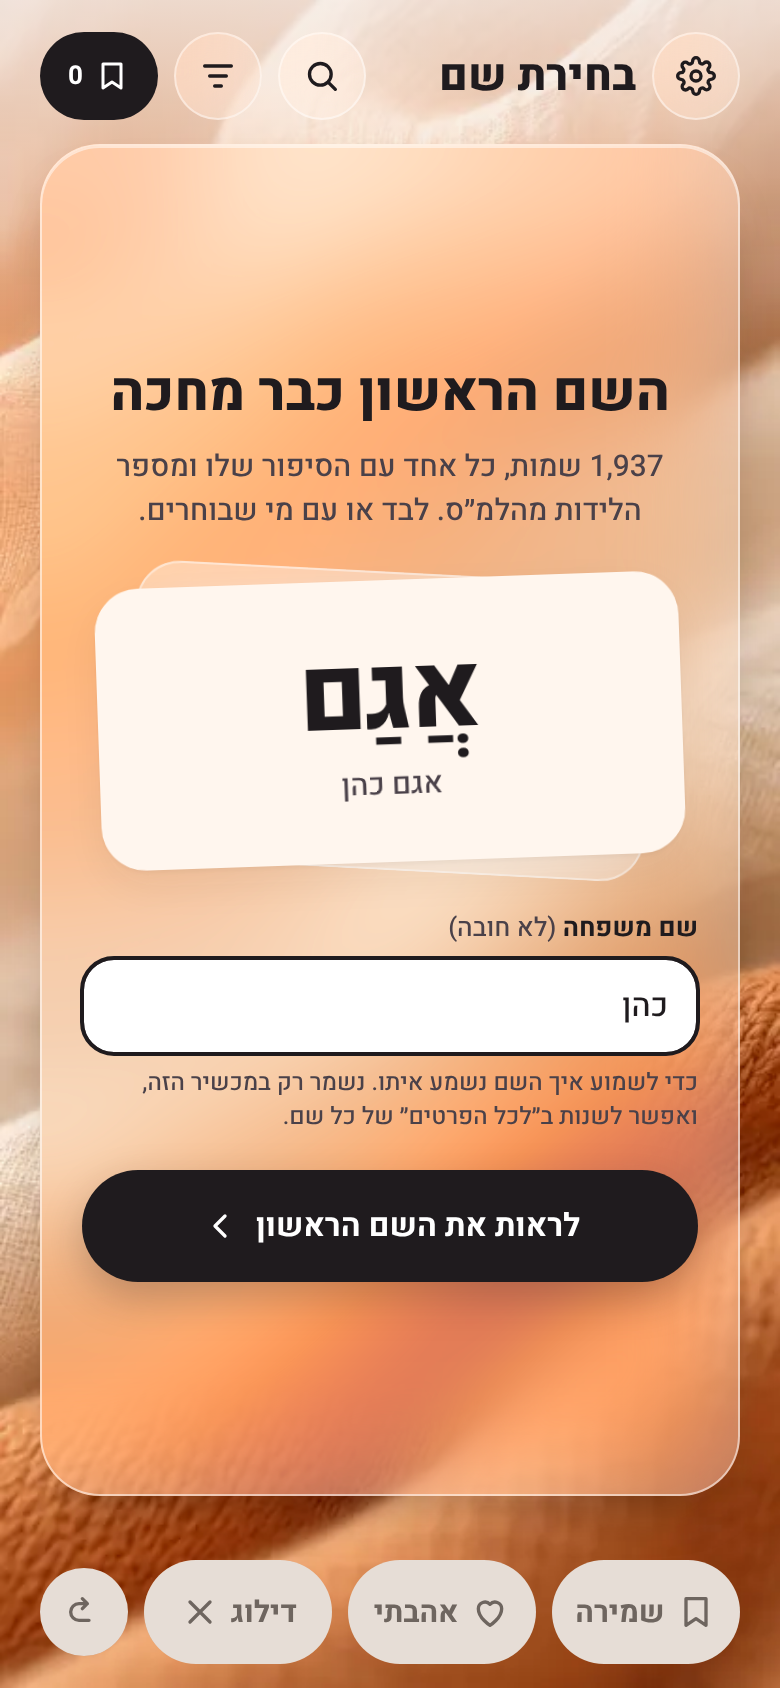
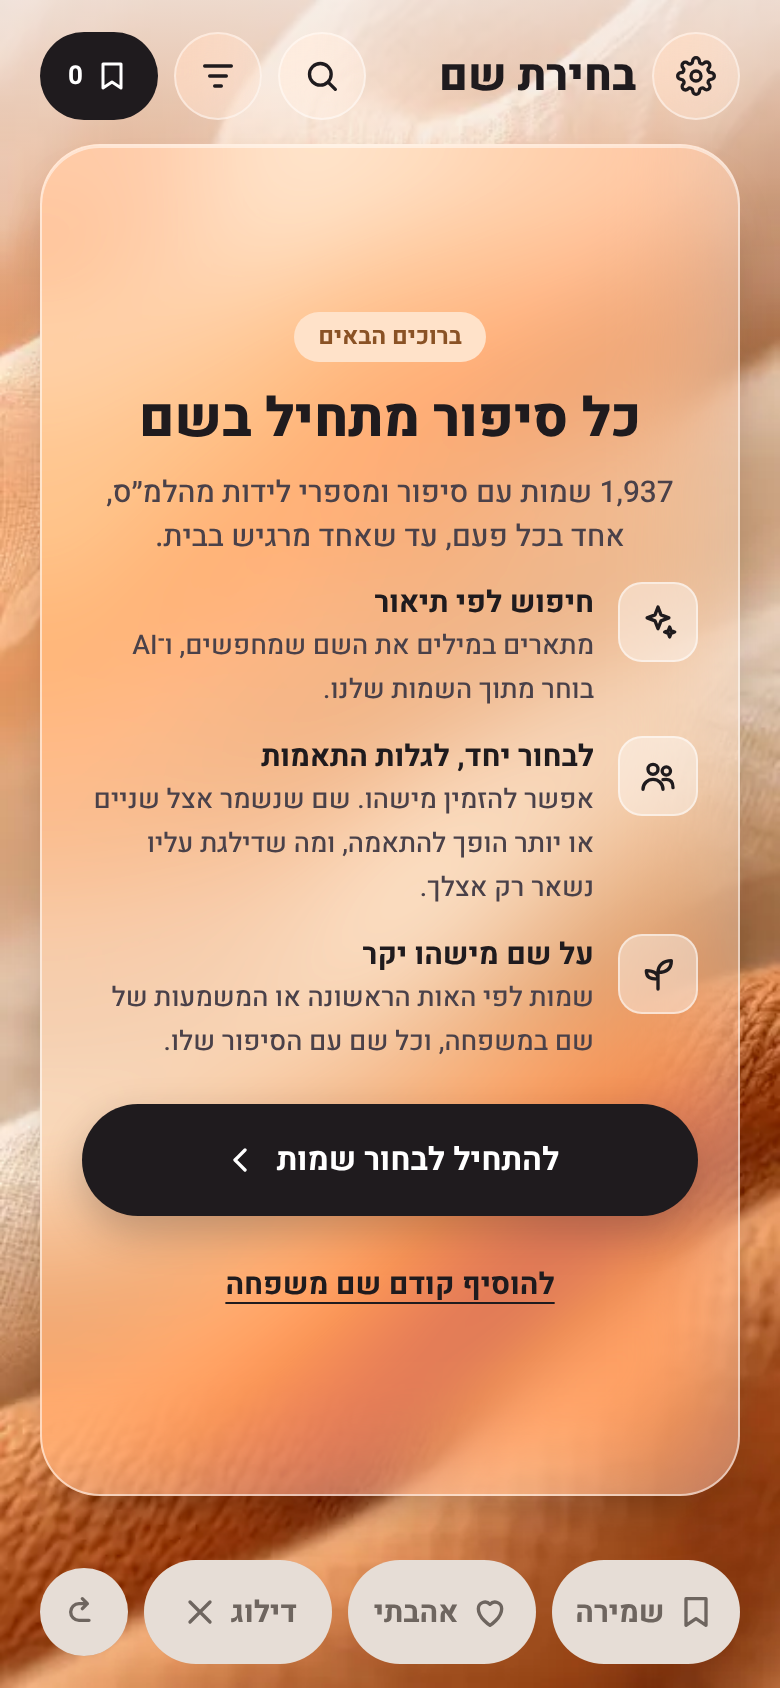
כרטיס פתיחה: direction A with a poetic title and the swiper's features
"כל סיפור מתחיל בשם", then three features: AI search (only while it's on),
choosing together and matches, naming after a relative. One button starts the
deck; the optional family name opens from a link under it.

Claude-Session: https://claude.ai/code/session_018hbTN1KPzs4NRqRC1ta2ev

Changed region(s): [[0.0923, 0.1848, 0.9231, 0.7701]]

diff --git a/src/components/names/swipe/SurnamePanel.tsx b/src/components/names/swipe/SurnamePanel.tsx
@@ -1,14 +1,14 @@
 "use client";
 
-import { useEffect, useState } from "react";
-import { Button, ChevronIcon, Glass, inputClass } from "@/components/names/ui";
+import { useEffect, useRef, useState, type ReactNode } from "react";
+import { Button, ChevronIcon, Glass, Icon, inputClass } from "@/components/names/ui";
+import { aiDeckEnabled } from "@/lib/names/aiDeck";
 import { SURNAME_MAX, fullName } from "@/lib/names/card";
 import { track } from "@/lib/names/track";
 import { deckPanel, deckPanelWrap } from "./EmptyDeck";
 
 type SurnamePanelProps = {
-  /** The first card's name with niqqud (large) and without it (with the surname, as on the card). */
-  preview: string;
+  /** The first card's name, for the surname hint ("נועם כהן"). */
   name: string;
   /** Guests have no settings screen: the hint points to the name sheet instead. */
   guest: boolean;
@@ -18,14 +18,49 @@ type SurnamePanelProps = {
   onDone: (surname: string) => void;
 };
 
+/** What the swiper can do, on the first card. The AI line shows only while the feature is on. */
+const FEATURES: { key: string; title: string; text: string; icon: ReactNode }[] = [
+  {
+    key: "ai",
+    title: "חיפוש לפי תיאור",
+    text: "מתארים במילים את השם שמחפשים, ו־AI בוחר מתוך השמות שלנו.",
+    icon: <path d="M12 3l1.8 4.7L18.5 9.5l-4.7 1.8L12 16l-1.8-4.7L5.5 9.5l4.7-1.8zM19 15l.8 2.2L22 18l-2.2.8L19 21l-.8-2.2L16 18l2.2-.8z" />,
+  },
+  {
+    key: "share",
+    title: "לבחור יחד, לגלות התאמות",
+    text: "אפשר להזמין מישהו. שם שנשמר אצל שניים או יותר הופך להתאמה, ומה שדילגת עליו נשאר רק אצלך.",
+    icon: (
+      <>
+        <circle cx="9" cy="8" r="3" />
+        <circle cx="17" cy="9" r="2.5" />
+        <path d="M3 20c0-3.3 2.7-6 6-6s6 2.7 6 6M15 14.2c.6-.1 1.3-.2 2-.2 2.8 0 4 2 4 5" />
+      </>
+    ),
+  },
+  {
+    key: "relative",
+    title: "על שם מישהו יקר",
+    text: "שמות לפי האות הראשונה או המשמעות של שם במשפחה, וכל שם עם הסיפור שלו.",
+    icon: <path d="M12 21V11M12 11c0-4 3-7 8-7 0 5-3 7-8 7zM12 15c0-3-2-5-7-5 0 4 2 5 7 5z" />,
+  },
+];
+
 /**
  * The first card a new visitor sees, once per device, where the first name card would be
- * (like PausePanel): an invitation to the deck that previews the first name, with an optional
- * family name shown on it as it is typed. One button starts the deck either way; the surname
+ * (like PausePanel): a poetic welcome, what the swiper can do (AI search, choosing together
+ * and matches, naming after a relative) and one button to the deck; an optional family name
+ * opens from a link below it. The button starts the deck either way; the surname
  * stays on the device only, and settings (or a name's sheet, for guests) can change it.
  */
-export default function SurnamePanel({ preview, name, guest, total, onDone }: SurnamePanelProps) {
+export default function SurnamePanel({ name, guest, total, onDone }: SurnamePanelProps) {
   const [surname, setSurname] = useState("");
+  // The surname field opens from its link, so the card leads with the invitation and one button.
+  const [open, setOpen] = useState(false);
+  const inputRef = useRef<HTMLInputElement>(null);
+  useEffect(() => {
+    if (open) inputRef.current?.focus();
+  }, [open]);
   const full = fullName(name, surname);
 
   useEffect(() => {
@@ -47,21 +82,26 @@ export default function SurnamePanel({ preview, name, guest, total, onDone }: Su
         aria-describedby="names-surname-lead"
         className={`${deckPanel} justify-center`}
       >
-        <h2 id="names-surname-title" className="m-0 text-display text-ink">
-          השם הראשון כבר מחכה
+        <span className="rounded-pill bg-peach-soft px-3 py-1 text-caption font-bold text-clay-deep">ברוכים הבאים</span>
+        <h2 id="names-surname-title" className="m-0 text-display text-balance text-ink">
+          כל סיפור מתחיל בשם
         </h2>
         <p id="names-surname-lead" className="m-0 -mt-1 text-intro text-ink-soft">
-          {total ? `${total.toLocaleString("en-US")} שמות, ` : "שמות "}
-          כל אחד עם הסיפור שלו ומספר הלידות מהלמ״ס. לבד או עם מי שבוחרים.
+          {total ? `${total.toLocaleString("en-US")} שמות` : "שמות"} עם סיפור ומספרי לידות מהלמ״ס, אחד בכל פעם, עד שאחד מרגיש בבית.
         </p>
-        {/* The first card, peeking out of its deck: its name, with the surname as it is typed. */}
-        <div aria-hidden="true" className="relative my-1 w-full max-w-[320px] py-2 max-[20rem]:hidden [@media(max-height:40rem)]:hidden">
-          <div className="names-glass-soft absolute inset-x-6 inset-y-1 rotate-3 rounded-lg" />
-          <div className="relative mx-2 flex -rotate-2 flex-col items-center gap-1 rounded-lg bg-peach-pale px-4 py-7 text-center shadow-card">
-            <span className="text-name break-words text-ink">{preview}</span>
-            <span className="text-card-title font-medium break-words text-ink-soft">{full ?? name}</span>
-          </div>
-        </div>
+        <ul className="m-0 flex w-full list-none flex-col gap-3 p-0 text-start">
+          {FEATURES.filter((f) => f.key !== "ai" || aiDeckEnabled()).map((f) => (
+            <li key={f.key} className="flex items-start gap-3">
+              <span aria-hidden="true" className="names-well flex size-10 flex-none items-center justify-center rounded-sm text-ink">
+                <Icon>{f.icon}</Icon>
+              </span>
+              <span className="text-body text-ink-soft">
+                <b className="block text-card-title text-ink">{f.title}</b>
+                {f.text}
+              </span>
+            </li>
+          ))}
+        </ul>
         <form
           noValidate
           onSubmit={(e) => {
@@ -70,34 +110,45 @@ export default function SurnamePanel({ preview, name, guest, total, onDone }: Su
           }}
           className="flex w-full flex-col gap-1.5 text-start"
         >
-          <label htmlFor="names-surname" className="text-person font-bold text-ink">
-            שם משפחה <span className="font-medium text-ink-soft">(לא חובה)</span>
-          </label>
-          <input
-            id="names-surname"
-            name="surname"
-            type="text"
-            dir="rtl"
-            autoComplete="family-name"
-            autoCorrect="off"
-            spellCheck={false}
-            enterKeyHint="go"
-            maxLength={SURNAME_MAX}
-            value={surname}
-            onChange={(e) => setSurname(e.target.value)}
-            aria-describedby="names-surname-hint"
-            className={inputClass()}
-          />
-          <span id="names-surname-hint" className="text-caption text-ink-soft">
-            {guest
-              ? "כל שם יופיע איתו על הכרטיס. נשמר רק במכשיר הזה, ואפשר לשנות ב״לכל הפרטים״ של כל שם."
-              : "כל שם יופיע איתו על הכרטיס. נשמר רק במכשיר הזה, ואפשר לשנות בהגדרות."}
-          </span>
-          <Button type="submit" className="mt-3 w-full">
-            לראות את השם הראשון
+          {open ? (
+            <>
+              <label htmlFor="names-surname" className="text-person font-bold text-ink">
+                שם משפחה <span className="font-medium text-ink-soft">(לא חובה)</span>
+              </label>
+              <input
+                ref={inputRef}
+                id="names-surname"
+                name="surname"
+                type="text"
+                dir="rtl"
+                autoComplete="family-name"
+                autoCorrect="off"
+                spellCheck={false}
+                enterKeyHint="go"
+                maxLength={SURNAME_MAX}
+                value={surname}
+                onChange={(e) => setSurname(e.target.value)}
+                aria-describedby="names-surname-hint"
+                className={inputClass()}
+              />
+              <span id="names-surname-hint" className="text-caption text-ink-soft">
+                {full ? `על הכרטיס: ${full}. ` : `כל שם יופיע איתו על הכרטיס, למשל ${name} ... `}
+                {guest
+                  ? "נשמר רק במכשיר הזה, ואפשר לשנות ב״לכל הפרטים״ של כל שם."
+                  : "נשמר רק במכשיר הזה, ואפשר לשנות בהגדרות."}
+              </span>
+            </>
+          ) : null}
+          <Button type="submit" className="mt-2 w-full">
+            להתחיל לבחור שמות
             <ChevronIcon dir="forward" />
           </Button>
         </form>
+        {open ? null : (
+          <Button variant="link" onClick={() => setOpen(true)} aria-expanded={false} aria-controls="names-surname">
+            להוסיף קודם שם משפחה
+          </Button>
+        )}
       </Glass>
     </div>
   );

diff --git a/src/components/names/swipe/SwipeScreen.tsx b/src/components/names/swipe/SwipeScreen.tsx
@@ -336,7 +336,7 @@ export default function SwipeScreen() {
             {slot === "pause" && guestCard ? (
               <GuestPanel key={`${guestCard}:${guestCount}`} kind={guestCard} count={guestCount} onLater={putNudgeAside} />
             ) : slot === "pause" && pause === "surname" ? (
-              <SurnamePanel preview={deck?.cards[0]?.content.niqqud || "נֹעַם"} name={deck?.cards[0]?.stats.name ?? "נועם"} guest={guest} total={cards?.length} onDone={answerSurname} />
+              <SurnamePanel name={deck?.cards[0]?.stats.name ?? "נועם"} guest={guest} total={cards?.length} onDone={answerSurname} />
             ) : slot === "pause" && launchPause ? (
               <PausePanel key={launchPause} pause={launchPause} totals={totals} onContinue={endPause} />
             ) : slot === "card" && deck && progress ? (
